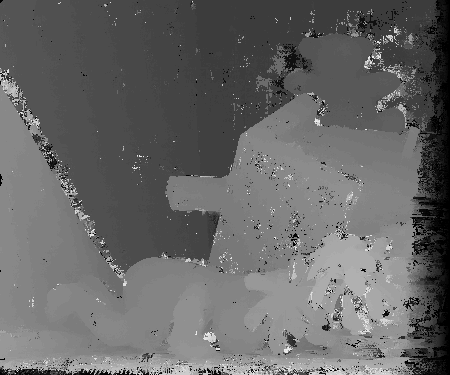
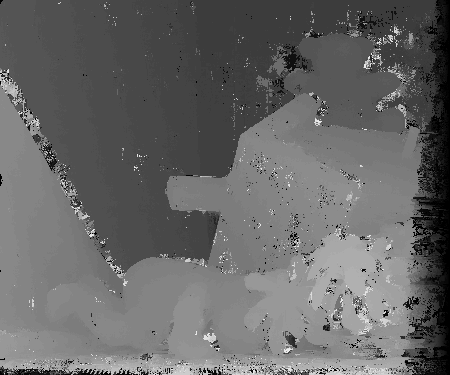
avg score:5.55

diff --git a/cv_hw4/test.py b/cv_hw4/test.py
@@ -98,7 +98,7 @@ class BSM():
 
     def refine_median(self):
         left_disp = self.left_disparity_map.astype(np.uint8)
-        kernal_size = 11
+        kernal_size = 7
         left_disp = cv2.medianBlur(left_disp, kernal_size)
         left_disp = cv2.bilateralFilter(left_disp, 10, 9, 16)
         cv2.imwrite('{}.png'.format(NAME), left_disp)
@@ -130,44 +130,23 @@ class BSM():
         c_axis = np.tile(range(row), (col, 1)).T
 
         LDc, LDe = 9, 16
-
+        refine_threshold = self.max_disp // 6
         for r in range(row):
             for c in range(col):
                 if valid_map[r, c] == False:
-
                     disparity = 1e5
                     for k in range(col):
                         if c - k < 0:
                             break
-                        elif valid_map[r, c - k] == True:
+                        elif valid_map[r, c - k] == True and left_disp[r, c - k] > refine_threshold:
                             disparity = min(disparity, left_disp[r, c - k])
                             break
                     for k in range(col):
                         if c + k >= col:
                             break
-                        elif valid_map[r, c + k] == True:
+                        elif valid_map[r, c + k] == True and left_disp[r, c + k] > refine_threshold:
                             disparity = min(disparity, left_disp[r, c + k])
                             break
-                    """
-                    weight_max = 1e-32 # initialize
-                    disparity = 0
-                    for d in range(self.max_disp):
-                        radius = np.sqrt((r_axis - r) ** 2 + (c_axis - c) ** 2)
-                        index = (valid_map == True) & (left_disp == d) & (radius < 30)
-                        r_fit = r_axis[index]
-                        c_fit = c_axis[index]
-                        img_fit = self.img_left_gray[index]
-                        # img_fit = self.img_left_bgr[index, :]
-                        space_dis = np.sqrt ((r_fit - r) ** 2 + (c_fit - c) ** 2)
-                        color_dis = np.sqrt ((img_fit - self.img_left_gray[r, c]) ** 2)
-                        # color_dis = np.sqrt (np.sum((img_fit - self.img_left_bgr[r, c].reshape(1, 3)) ** 2 , axis = 1))
-                        exp_index = - space_dis / LDc - color_dis / LDe
-                        weight_arr = np.exp(exp_index)
-                        weight_sum = np.sum(weight_arr)
-                        if weight_sum > weight_max:
-                            disparity = d
-                            weight_max = weight_sum 
-                    """
                     new_disp[r, c] = disparity
             cv2.imwrite('output/{}.png'.format(NAME), new_disp * self.scale_factor)
             print(r)
